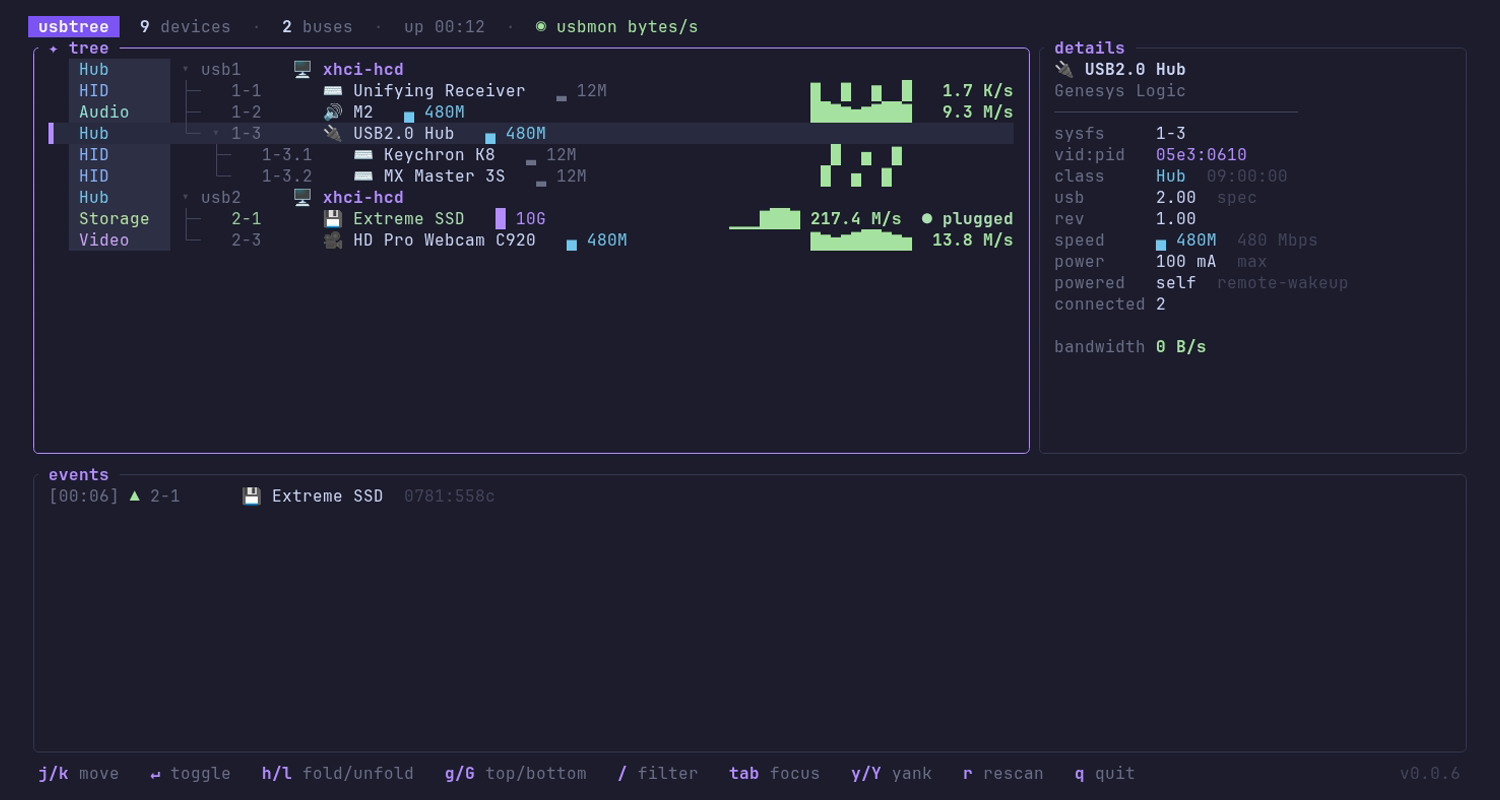
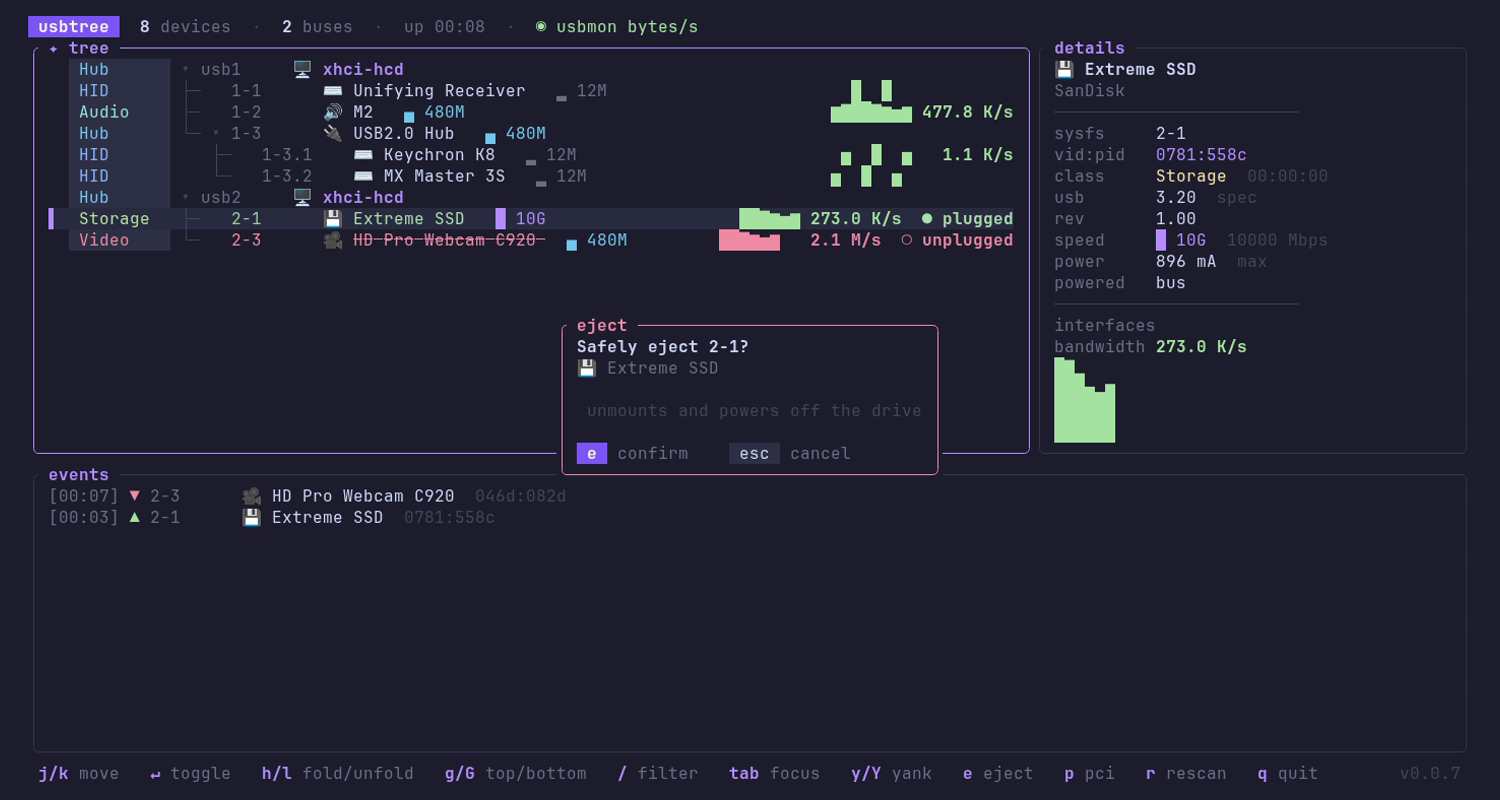
Feat/eject async (#52)
* feat(usb): eject off-thread with partial-fail reporting

* chore(demo): shorter loop, realistic rates, playable eject, new shots

* chore(shots): normalize rendered png/gif before commit

diff --git a/docs/index.html b/docs/index.html
@@ -814,6 +814,24 @@
           </p>
         </div>
         <div class="card">
+          <div class="ico">⏏️</div>
+          <h3>Safe eject</h3>
+          <p>
+            Hit <code>e</code> on a USB drive to unmount it and cut port power
+            through udisks2 — a confirmation dialog, then a clean pull. No root,
+            no <code>sudo</code>. <b>Linux only</b> for now.
+          </p>
+        </div>
+        <div class="card">
+          <div class="ico">🎛️</div>
+          <h3>PCI view</h3>
+          <p>
+            Press <code>p</code> to flip to a flat PCI device list with a detail
+            pane — prog-if, subsystem, link speed/width, NUMA node, IOMMU group,
+            and power state.
+          </p>
+        </div>
+        <div class="card">
           <div class="ico">🦀</div>
           <h3>Pure Rust, zero setup</h3>
           <p>
@@ -884,6 +902,12 @@
             </tr>
             <tr>
               <td>Real bandwidth <span class="dim">usbmon bytes/s, root</span></td>
+              <td class="yes">✓</td>
+              <td class="no">—</td>
+              <td class="no">—</td>
+            </tr>
+            <tr>
+              <td>Safe eject <span class="dim">unmount + power-off, no root</span></td>
               <td class="yes">✓</td>
               <td class="no">—</td>
               <td class="no">—</td>
@@ -981,6 +1005,11 @@
         </div>
         <div class="key"><kbd>h / l · ← →</kbd><span>fold / unfold</span></div>
         <div class="key"><kbd>g / G</kbd><span>jump top / bottom</span></div>
+        <div class="key"><kbd>/</kbd><span>filter tree</span></div>
+        <div class="key"><kbd>Tab</kbd><span>focus tree / events</span></div>
+        <div class="key"><kbd>y / Y</kbd><span>yank id / details</span></div>
+        <div class="key"><kbd>e</kbd><span>safe-eject storage</span></div>
+        <div class="key"><kbd>p</kbd><span>toggle USB / PCI</span></div>
         <div class="key"><kbd>r</kbd><span>force rescan</span></div>
         <div class="key"><kbd>q · Esc</kbd><span>quit</span></div>
       </div>

diff --git a/src/main.rs b/src/main.rs
@@ -483,8 +483,14 @@ struct App {
     metrics: Metrics,
     /// per-device activity history, newest last
     rates: HashMap<String, Vec<u64>>,
-    /// transient status line (e.g. "copied …"), shown until it ages out
-    toast: Option<(String, Instant)>,
+    /// transient status line (e.g. "copied …"): (message, raised_at, ok) — `ok`
+    /// drives the ✓/✗ glyph, set by the producer so the UI never sniffs the text
+    toast: Option<(String, Instant, bool)>,
+    /// label of the drive currently being ejected off-thread, if any; shown as a
+    /// persistent "ejecting…" line so a slow power-off never freezes the UI
+    ejecting: Option<String>,
+    /// channel carrying the eject result back from its worker thread
+    eject_rx: Option<Receiver<Result<String, String>>>,
     /// newer release version once the background check finds one (no auto-update)
     update: Option<String>,
     /// one-shot channel carrying the newer version from the check thread
@@ -499,6 +505,11 @@ struct App {
     filter: Option<Filter>,
     /// open eject confirmation dialog: the sysfs name pending eject
     confirm: Option<String>,
+    /// names ejected in `--demo`: real eject is unavailable, so instead we drop
+    /// these from every synthetic scan to visibly play the unplug (ghost + log)
+    // ponytail: stays gone for the session; the loop won't replug it. Fine for a
+    // demo — clear on the device's next natural unplug if that ever matters.
+    demo_ejected: HashSet<String>,
     /// which bus view is shown (USB / PCI)
     tab: Tab,
     /// PCI devices (flat, address-sorted); only refreshed while the PCI tab is up
@@ -554,12 +565,15 @@ impl App {
             metrics,
             rates: HashMap::new(),
             toast: None,
+            ejecting: None,
+            eject_rx: None,
             screen: Rect::default(),
             tree_rect: Rect::default(),
             log_rect: Rect::default(),
             menu: None,
             filter: None,
             confirm: None,
+            demo_ejected: HashSet::new(),
             tab: Tab::Usb,
             pci: Vec::new(),
             pci_rows: Vec::new(),
@@ -631,6 +645,15 @@ impl App {
             {
                 self.update = Some(v);
                 self.update_rx = None;
+            }
+            if let Some(rx) = &self.eject_rx
+                && let Ok(res) = rx.try_recv()
+            {
+                self.eject_rx = None;
+                self.ejecting = None;
+                let ok = res.is_ok();
+                self.toast = Some((res.unwrap_or_else(|e| e), Instant::now(), ok));
+                self.rescan();
             }
         }
     }
@@ -928,13 +951,11 @@ impl App {
 
     /// Copy `text` to the clipboard and raise a toast naming `what`.
     fn copy(&mut self, text: &str, what: &str) {
-        self.toast = Some((
-            match clip(text) {
-                Ok(()) => format!("copied {what}"),
-                Err(e) => format!("copy failed: {e}"),
-            },
-            Instant::now(),
-        ));
+        let (msg, ok) = match clip(text) {
+            Ok(()) => (format!("copied {what}"), true),
+            Err(e) => (format!("copy failed: {e}"), false),
+        };
+        self.toast = Some((msg, Instant::now(), ok));
     }
 
     /// Move the selection in the focused pane. Selection drives ratatui's List
@@ -1012,7 +1033,8 @@ impl App {
 
     /// `e`: open the eject confirmation dialog for the selected storage device.
     fn eject_key(&mut self) {
-        if !self.can_eject() {
+        // one eject at a time — ignore `e` while a power-off is still in flight
+        if !self.can_eject() || self.ejecting.is_some() {
             return;
         }
         let Some(&(_, i)) = self.list.selected().and_then(|s| self.rows.get(s)) else {
@@ -1024,16 +1046,31 @@ impl App {
 
     /// Handle a key while the eject dialog is open: `e`/`y`/Enter safely ejects
     /// (unmount + power off via udisks2, unprivileged); anything else cancels.
+    /// The eject runs on a worker thread — `power-off` syncs and spins the drive
+    /// down, which can block for seconds, and the UI must stay live meanwhile.
     fn confirm_key(&mut self, code: KeyCode) {
         let name = self.confirm.take();
         if let (KeyCode::Char('e' | 'y') | KeyCode::Enter, Some(name)) = (code, name) {
-            let msg = if self.demo {
-                "eject disabled in --demo".into()
-            } else {
-                usb::eject(&name).unwrap_or_else(|e| format!("eject failed: {e}"))
-            };
-            self.toast = Some((msg, Instant::now()));
-            self.rescan();
+            if self.demo {
+                // no real hardware to eject — drop it from the synthetic scan so
+                // the tree plays the unplug (ghost + event-log entry) for real
+                self.demo_ejected.insert(name.clone());
+                self.toast = Some((format!("ejected {name}"), Instant::now(), true));
+                self.rescan();
+                return;
+            }
+            let label = self
+                .render
+                .iter()
+                .find(|d| d.name == name)
+                .map(|d| d.label())
+                .unwrap_or_else(|| name.clone());
+            let (tx, rx) = mpsc::channel();
+            std::thread::spawn(move || {
+                let _ = tx.send(usb::eject(&name));
+            });
+            self.eject_rx = Some(rx);
+            self.ejecting = Some(label);
         }
     }
 
@@ -1042,11 +1079,14 @@ impl App {
         if self.tab == Tab::Pci {
             self.pci_rescan();
         }
-        let new = if self.demo {
+        let mut new = if self.demo {
             usb::demo_scan(self.started.elapsed().as_secs())
         } else {
             usb::scan()
         };
+        if self.demo {
+            new.retain(|d| !self.demo_ejected.contains(&d.name));
+        }
         let (added, removed) = usb::diff(&self.devices, &new);
         let stamp = self.started.elapsed().as_secs();
         let stamp = format!("[{:02}:{:02}] ", stamp / 60, stamp % 60);
@@ -1176,15 +1216,24 @@ impl App {
         self.draw_detail(f, detail_area);
         self.draw_log(f, log_area);
 
-        // fresh toast takes over the help line for a couple seconds, else key hints
-        let showed_toast = if let Some((msg, t)) = &self.toast
-            && t.elapsed() < Duration::from_secs(2)
-        {
-            let ok = msg.starts_with("copied") || msg.starts_with("ejected");
+        // an in-flight eject owns the help line until it finishes (may be seconds);
+        // else a fresh toast for a couple seconds; else the key hints
+        let showed_toast = if let Some(label) = &self.ejecting {
             f.render_widget(
                 Paragraph::new(Line::from(vec![
-                    if ok { " ✓ " } else { " ✗ " }
-                        .fg(if ok { theme::MINT } else { theme::ROSE })
+                    " ⏳ ".fg(theme::ACCENT).bold(),
+                    format!("ejecting {label}…").fg(theme::TEXT),
+                ])),
+                help,
+            );
+            true
+        } else if let Some((msg, t, ok)) = &self.toast
+            && t.elapsed() < Duration::from_secs(2)
+        {
+            f.render_widget(
+                Paragraph::new(Line::from(vec![
+                    if *ok { " ✓ " } else { " ✗ " }
+                        .fg(if *ok { theme::MINT } else { theme::ROSE })
                         .bold(),
                     msg.clone().fg(theme::TEXT),
                 ])),

diff --git a/src/usb.rs b/src/usb.rs
@@ -664,7 +664,7 @@ pub fn demo_scan(t: u64) -> Vec<Device> {
         max_power_ma: power,
         interfaces: demo_interfaces(name),
     };
-    let t = t % 30;
+    let t = t % 15;
     // attrs: 0x80 bus-powered, 0xa0 +remote-wakeup, 0xe0 self-powered +wakeup
     let mut devices = vec![
         dev("usb1", 0, 0, "", "xhci-hcd", "", 0x09, &[], None, 0),
@@ -675,12 +675,12 @@ pub fn demo_scan(t: u64) -> Vec<Device> {
         dev("1-3.2", 0x046d, 0xb034, "Logitech", "MX Master 3S", "12", 0x00, &[0x03], Some(100), 0xa0),
         dev("usb2", 0, 0, "", "xhci-hcd", "", 0x09, &[], None, 0),
     ];
-    if (6..24).contains(&t) {
+    if (3..12).contains(&t) {
         devices.push(dev(
             "2-1", 0x0781, 0x558c, "SanDisk", "Extreme SSD", "10000", 0x00, &[0x08], Some(896), 0x80,
         ));
     }
-    if !(14..20).contains(&t) {
+    if !(7..10).contains(&t) {
         devices.push(dev(
             "2-3", 0x046d, 0x082d, "Logitech", "HD Pro Webcam C920", "480", 0xef, &[0x0e, 0x01],
             Some(500), 0x80,
@@ -832,14 +832,43 @@ pub fn eject(name: &str) -> Result<String, String> {
     if disks.is_empty() {
         return Err("no block device found for this port".into());
     }
+    // Eject every backing disk independently: a hub can carry several, and one
+    // busy drive must not abort the rest. Collect outcomes, report at the end.
+    let mut ok = Vec::new();
+    let mut errs = Vec::new();
     for disk in &disks {
+        let mut busy = false;
         for part in partitions(disk) {
-            // ignore failures: the partition may simply not be mounted
-            let _ = udisksctl(&["unmount", "-b", &format!("/dev/{part}")]);
+            // an unmounted partition errors with "not mounted" — harmless; only a
+            // real in-use error blocks power-off, so surface that plainly
+            if let Err(e) = udisksctl(&["unmount", "-b", &format!("/dev/{part}")])
+                && is_busy(&e)
+            {
+                busy = true;
+                errs.push(format!("{part} in use"));
+            }
         }
-        udisksctl(&["power-off", "-b", &format!("/dev/{disk}")])?;
+        if busy {
+            continue; // leave a drive with open files powered — don't risk data loss
+        }
+        match udisksctl(&["power-off", "-b", &format!("/dev/{disk}")]) {
+            Ok(()) => ok.push(disk.clone()),
+            Err(e) => errs.push(format!("{disk}: {e}")),
+        }
     }
-    Ok(format!("ejected {}", disks.join(", ")))
+    match (ok.is_empty(), errs.is_empty()) {
+        (_, true) => Ok(format!("ejected {}", ok.join(", "))),
+        (true, false) => Err(errs.join("; ")),
+        (false, false) => Err(format!("ejected {}; {}", ok.join(", "), errs.join("; "))),
+    }
+}
+
+/// True if a udisksctl error means the device is in use (an open file / mounted
+/// path), vs. a benign "not mounted". A busy drive is left powered, not yanked.
+#[cfg(target_os = "linux")]
+fn is_busy(err: &str) -> bool {
+    let e = err.to_lowercase();
+    e.contains("busy") || e.contains("in use")
 }
 
 #[cfg(not(target_os = "linux"))]
@@ -1031,6 +1060,16 @@ C 03  Human Interface Device\n\
         let child = "../devices/pci0000:00/usb2/2-1/2-1.4/2-1.4:1.0/host6/block/sdb";
         assert!(under_usb_device(child, "2-1"));
         assert!(under_usb_device(child, "2-1.4"));
+    }
+
+    #[cfg(target_os = "linux")]
+    #[test]
+    fn busy_vs_not_mounted() {
+        assert!(is_busy("Error unmounting /dev/sda1: target is busy"));
+        assert!(is_busy("Device or resource busy"));
+        assert!(is_busy("Object /dev/sda1 is in use"));
+        // benign: an idle partition just isn't mounted — must not block power-off
+        assert!(!is_busy("Error unmounting: not mounted"));
     }
 
     #[test]

diff --git a/src/metrics.rs b/src/metrics.rs
@@ -165,16 +165,18 @@ impl Metrics {
     }
 }
 
-/// Plausible traffic per class: steady audio, bursty storage, trickling HID.
+/// Plausible traffic per class, real-world scale: a 2-in/2-out audio interface
+/// trickles ~0.5 MB/s, a 1080p webcam ~3 MB/s (H.264), a USB SSD bursts to a
+/// few hundred MB/s during a copy then idles, HID barely registers.
 fn demo_rate(d: &Device, t: u64) -> u64 {
     let phase: u64 = d.name.bytes().map(u64::from).sum();
     let wave = (((t + phase) as f64) * 0.9).sin() * 0.5 + 0.5; // 0..1
     let base = match d.effective_class() {
-        0x01 => 12_000_000.0,
-        0x0e => 24_000_000.0,
+        0x01 => 700_000.0,
+        0x0e => 3_200_000.0,
         0x08 => {
             if (t + phase) % 11 < 5 {
-                280_000_000.0
+                160_000_000.0
             } else {
                 400_000.0
             }

diff --git a/README.md b/README.md
@@ -94,6 +94,9 @@ cargo install --git https://github.com/gnomeria/usbtree   # or clone + cargo bui
 - Live per-device activity (Linux): inline sparklines in the tree plus a bandwidth graph in the detail panel — URBs/s unprivileged, real bytes/s when usbmon is readable (see below)
 - Speed badges with tier glyphs: `▂` low/full, `▄` high (480M), `█` SuperSpeed+ (5G/10G)
 - Detail panel: sysfs path, vid:pid, vendor, class, speed, max power (advertised `bMaxPower`), serial, connected children
+- Safe eject (Linux, unprivileged): `e` on a mass-storage device unmounts it and cuts port power via udisks2 — with a confirmation dialog and no root
+- PCI view (`p`): toggle to a flat, address-sorted PCI device list with a detail pane (prog-if, subsystem, link speed/width, NUMA node, IOMMU group, power state)
+- Live tree filter (`/`) and yank (`y` copies vid:pid, `Y` copies full details) to the clipboard
 - `usbtree --dump` prints the tree once to stdout (no TUI)
 
 ## Usage
@@ -113,6 +116,11 @@ usbtree --demo          # fake device tree with scripted hot-plug + traffic
 | `Enter`/`Space`       | collapse/expand hub |
 | `h`/`←`, `l`/`→`      | fold / unfold       |
 | `g`/`Home`, `G`/`End` | top / bottom        |
+| `/`                   | filter tree         |
+| `Tab`                 | focus tree / events |
+| `y` / `Y`             | yank id / details   |
+| `e`                   | safe-eject storage  |
+| `p`                   | toggle USB / PCI    |
 | `r`                   | force rescan        |
 | `q` / `Esc`           | quit                |
 